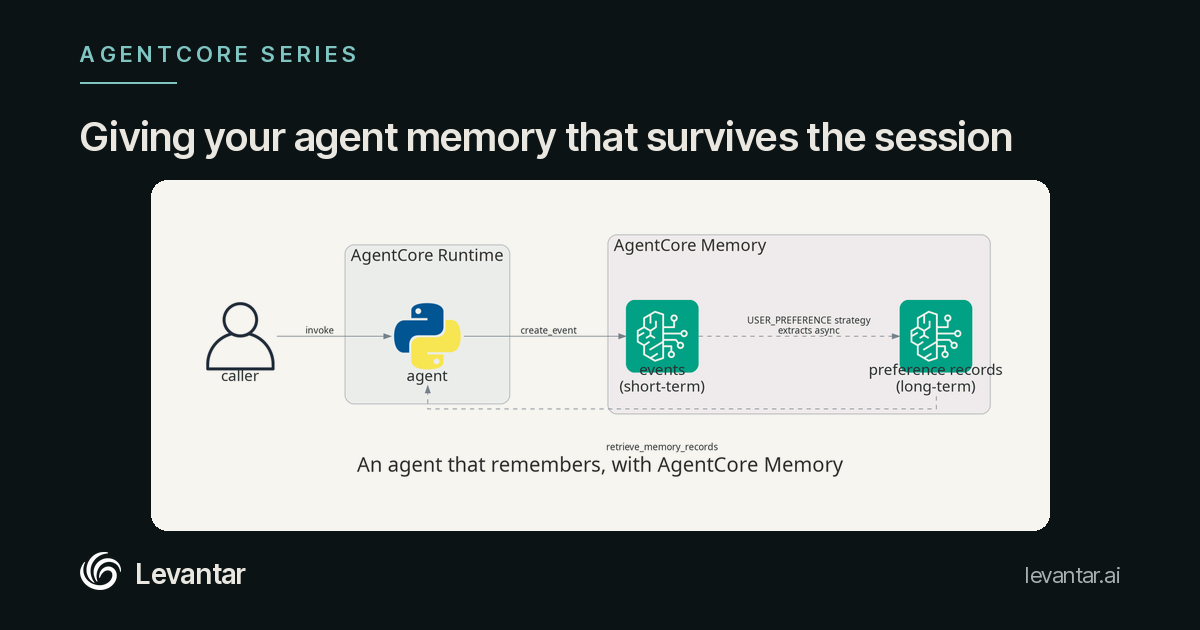
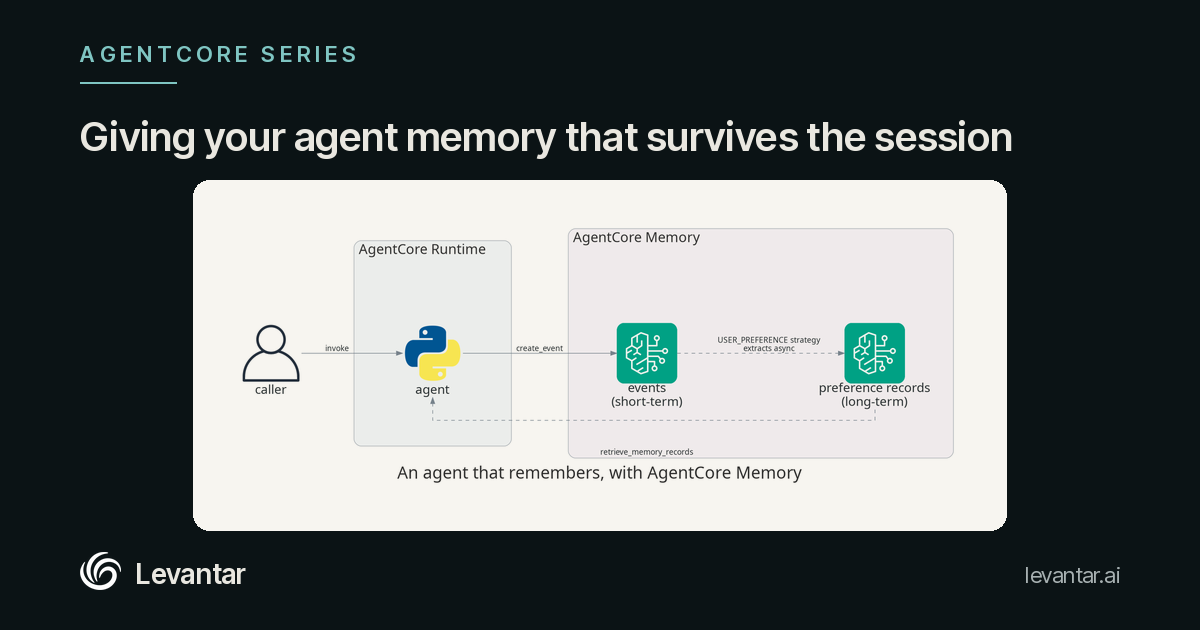
fix: stop diagram labels overlapping their boxes on social cards
The cards render the diagram with DIAGRAM_FONT_BOOST so the text survives
being scaled down into a feed. A diagrams node is a shape=none box holding
an icon with the label drawn underneath, and its height is hardcoded to 1.9
inches plus 0.4 per extra label line, with no width set and nothing in
either aware of the font size. Boost the font and the label grows while its
box does not, so it drops onto the icon, and since a cluster is sized from
the boxes it contains rather than from what is drawn, it lands on the
cluster boundary too.

scripts/diagram_sizing.py now owns the boost, the node height and the
cluster margin, and all four diagrams import it. Every labelled node asks
for the height its text actually needs.

Both helpers are identity at boost 0, so the four architecture.png files
embedded in the posts are byte-identical. Only the cards changed.

Setting an explicit width does not work and the module says so. graphviz
scales the icon up to fill the box and the label then sits on the artwork.

diff --git a/scripts/diagram_sizing.py b/scripts/diagram_sizing.py
@@ -1,0 +1,47 @@
+"""Boost-aware sizing for the graphviz architecture diagrams.
+
+Every demo renders its diagram twice. Once at the default font for the post,
+and once with DIAGRAM_FONT_BOOST set so the text survives being scaled down
+onto a social card. The boost is where the trouble is.
+
+A `diagrams` node is a `shape=none` box holding an icon with the label drawn
+underneath it, and the box height is hardcoded to 1.9 inches plus 0.4 for each
+extra label line. Nothing in that is aware of the font size. Boost the font and
+the label grows while its box does not, so it drops out of the bottom, and
+because a cluster is sized from the boxes it contains rather than from what is
+drawn, the label lands on the cluster boundary.
+
+`node_height` grows the box by what the larger text actually needs, and
+`cluster_margin` adds slack around the cluster for the labels that are wider
+than their node. Both are identity at boost 0, so the diagrams embedded in the
+posts render exactly as they did before.
+
+Do not set an explicit width to solve the horizontal case. graphviz scales the
+icon up to fill the box, and the label then sits on the artwork instead.
+
+    import os, sys
+    sys.path.insert(0, os.path.join(os.path.dirname(__file__), "..", "..", "scripts"))
+    from diagram_sizing import BOOST, cluster_margin, fs, node_height
+"""
+
+import os
+
+BOOST = int(os.environ.get("DIAGRAM_FONT_BOOST", "0"))
+
+# Roughly the line box a point of font size occupies, in points.
+_LINE_RATIO = 1.4
+
+
+def fs(size):
+    """Font size with the boost applied, as graphviz wants it, a string."""
+    return str(int(size) + BOOST)
+
+
+def node_height(lines=1):
+    """Node height in inches that holds `lines` of label at the boosted font."""
+    return str(round(1.9 + 0.4 * (lines - 1) + lines * BOOST * _LINE_RATIO / 72, 2))
+
+
+def cluster_margin(base=25):
+    """Cluster padding in points, widened so long labels stay inside."""
+    return str(base + BOOST * 7)

diff --git a/agentcore/02-gateway/diagram.py b/agentcore/02-gateway/diagram.py
@@ -5,19 +5,19 @@ Produces architecture.png referenced by POST.md.
 """
 
 import os
+import sys
 
+sys.path.insert(0, os.path.join(os.path.dirname(os.path.abspath(__file__)), "..", "..", "scripts"))
+
+from diagram_sizing import cluster_margin
+from diagram_sizing import fs as _fs
+from diagram_sizing import node_height as _h
 from diagrams import Cluster, Diagram, Edge
 from diagrams.aws.compute import Lambda
 from diagrams.aws.network import APIGateway
 from diagrams.aws.security import Cognito
 from diagrams.onprem.client import User
 from diagrams.programming.language import Python
-
-_BOOST = int(os.environ.get("DIAGRAM_FONT_BOOST", "0"))
-
-
-def _fs(v):
-    return str(int(v) + _BOOST)
 
 graph_attr = {
     "pad": "0.6",
@@ -46,22 +46,22 @@ with Diagram(
     node_attr=node_attr,
     edge_attr=edge_attr,
 ):
-    caller = User("caller")
+    caller = User("caller", height=_h(1))
 
     with Cluster(
         "AgentCore Runtime",
-        graph_attr={"fontsize": _fs(15), "margin": "25", "bgcolor": "#f3f7fa"},
+        graph_attr={"fontsize": _fs(15), "margin": cluster_margin(), "bgcolor": "#f3f7fa"},
     ):
-        agent = Python("agent")
+        agent = Python("agent", height=_h(1))
 
     with Cluster(
         "AgentCore Gateway (MCP)",
-        graph_attr={"fontsize": _fs(15), "margin": "25", "bgcolor": "#f7f4fa"},
+        graph_attr={"fontsize": _fs(15), "margin": cluster_margin(), "bgcolor": "#f7f4fa"},
     ):
-        gateway = APIGateway("orders target")
+        gateway = APIGateway("orders target", height=_h(1))
 
-    tool = Lambda("lookup_order")
-    cognito = Cognito("Cognito pool")
+    tool = Lambda("lookup_order", height=_h(1))
+    cognito = Cognito("Cognito pool", height=_h(1))
 
     caller >> Edge(label="invoke") >> agent
     agent >> Edge(label="client_credentials", style="dashed") >> cognito

diff --git a/agentcore/03-memory/diagram.py b/agentcore/03-memory/diagram.py
@@ -5,17 +5,17 @@ Produces architecture.png referenced by POST.md.
 """
 
 import os
+import sys
 
+sys.path.insert(0, os.path.join(os.path.dirname(os.path.abspath(__file__)), "..", "..", "scripts"))
+
+from diagram_sizing import cluster_margin
+from diagram_sizing import fs as _fs
+from diagram_sizing import node_height as _h
 from diagrams import Cluster, Diagram, Edge
 from diagrams.aws.ml import Bedrock
 from diagrams.onprem.client import User
 from diagrams.programming.language import Python
-
-_BOOST = int(os.environ.get("DIAGRAM_FONT_BOOST", "0"))
-
-
-def _fs(v):
-    return str(int(v) + _BOOST)
 
 graph_attr = {
     "pad": "0.6",
@@ -44,20 +44,20 @@ with Diagram(
     node_attr=node_attr,
     edge_attr=edge_attr,
 ):
-    caller = User("caller")
+    caller = User("caller", height=_h(1))
 
     with Cluster(
         "AgentCore Runtime",
-        graph_attr={"fontsize": _fs(15), "margin": "25", "bgcolor": "#f3f7fa"},
+        graph_attr={"fontsize": _fs(15), "margin": cluster_margin(), "bgcolor": "#f3f7fa"},
     ):
-        agent = Python("agent")
+        agent = Python("agent", height=_h(1))
 
     with Cluster(
         "AgentCore Memory",
-        graph_attr={"fontsize": _fs(15), "margin": "25", "bgcolor": "#f7f4fa"},
+        graph_attr={"fontsize": _fs(15), "margin": cluster_margin(), "bgcolor": "#f7f4fa"},
     ):
-        events = Bedrock("events\n(short-term)")
-        records = Bedrock("preference records\n(long-term)")
+        events = Bedrock("events\n(short-term)", height=_h(2))
+        records = Bedrock("preference records\n(long-term)", height=_h(2))
 
     caller >> Edge(label="invoke") >> agent
     agent >> Edge(label="create_event") >> events

diff --git a/agentcore/01-first-agent/diagram.py b/agentcore/01-first-agent/diagram.py
@@ -5,19 +5,19 @@ Produces architecture.png referenced by POST.md.
 """
 
 import os
+import sys
 
+sys.path.insert(0, os.path.join(os.path.dirname(os.path.abspath(__file__)), "..", "..", "scripts"))
+
+from diagram_sizing import cluster_margin
+from diagram_sizing import fs as _fs
+from diagram_sizing import node_height as _h
 from diagrams import Cluster, Diagram, Edge
 from diagrams.aws.compute import ECR
 from diagrams.aws.management import CloudwatchLogs
 from diagrams.aws.security import IAMRole
 from diagrams.onprem.client import User
 from diagrams.programming.language import Python
-
-_BOOST = int(os.environ.get("DIAGRAM_FONT_BOOST", "0"))
-
-
-def _fs(v):
-    return str(int(v) + _BOOST)
 
 graph_attr = {
     "pad": "0.6",
@@ -46,17 +46,17 @@ with Diagram(
     node_attr=node_attr,
     edge_attr=edge_attr,
 ):
-    caller = User("caller")
-    ecr = ECR("ECR image\n(git SHA tag)")
+    caller = User("caller", height=_h(1))
+    ecr = ECR("ECR image\n(git SHA tag)", height=_h(2))
 
     with Cluster(
         "AgentCore Runtime  -  one microVM per session",
-        graph_attr={"fontsize": _fs(15), "margin": "25", "bgcolor": "#f3f7fa"},
+        graph_attr={"fontsize": _fs(15), "margin": cluster_margin(), "bgcolor": "#f3f7fa"},
     ):
-        agent = Python("echo agent\nport 8080")
+        agent = Python("echo agent\nport 8080", height=_h(2))
 
-    logs = CloudwatchLogs("runtime logs")
-    role = IAMRole("execution role")
+    logs = CloudwatchLogs("runtime logs", height=_h(1))
+    role = IAMRole("execution role", height=_h(1))
 
     caller >> Edge(label="invoke") >> agent
     ecr >> Edge(label="pull", style="dashed") >> agent

diff --git a/agentcore/04-builtin-tools/diagram.py b/agentcore/04-builtin-tools/diagram.py
@@ -5,18 +5,17 @@ Produces architecture.png referenced by POST.md.
 """
 
 import os
+import sys
 
+sys.path.insert(0, os.path.join(os.path.dirname(os.path.abspath(__file__)), "..", "..", "scripts"))
+
+from diagram_sizing import cluster_margin
+from diagram_sizing import fs as _fs
+from diagram_sizing import node_height as _h
 from diagrams import Cluster, Diagram, Edge
 from diagrams.aws.ml import Bedrock
 from diagrams.onprem.client import User
 from diagrams.programming.language import Python
-
-_BOOST = int(os.environ.get("DIAGRAM_FONT_BOOST", "0"))
-
-
-def _fs(v):
-    return str(int(v) + _BOOST)
-
 
 graph_attr = {
     "pad": "0.6",
@@ -45,19 +44,19 @@ with Diagram(
     node_attr=node_attr,
     edge_attr=edge_attr,
 ):
-    caller = User("caller\n(CSV)")
+    caller = User("caller\n(CSV)", height=_h(2))
 
     with Cluster(
         "AgentCore Runtime",
-        graph_attr={"fontsize": _fs(15), "margin": "25", "bgcolor": "#f3f7fa"},
+        graph_attr={"fontsize": _fs(15), "margin": cluster_margin(), "bgcolor": "#f3f7fa"},
     ):
-        agent = Python("agent")
+        agent = Python("agent", height=_h(1))
 
     with Cluster(
         "Code Interpreter  -  SANDBOX: no network, no credentials",
-        graph_attr={"fontsize": _fs(15), "margin": "25", "bgcolor": "#f7f4fa"},
+        graph_attr={"fontsize": _fs(15), "margin": cluster_margin(), "bgcolor": "#f7f4fa"},
     ):
-        sandbox = Bedrock("pandas session")
+        sandbox = Bedrock("pandas session", height=_h(1))
 
     caller >> Edge(label="invoke") >> agent
     agent >> Edge(label="results", dir="back") >> sandbox
